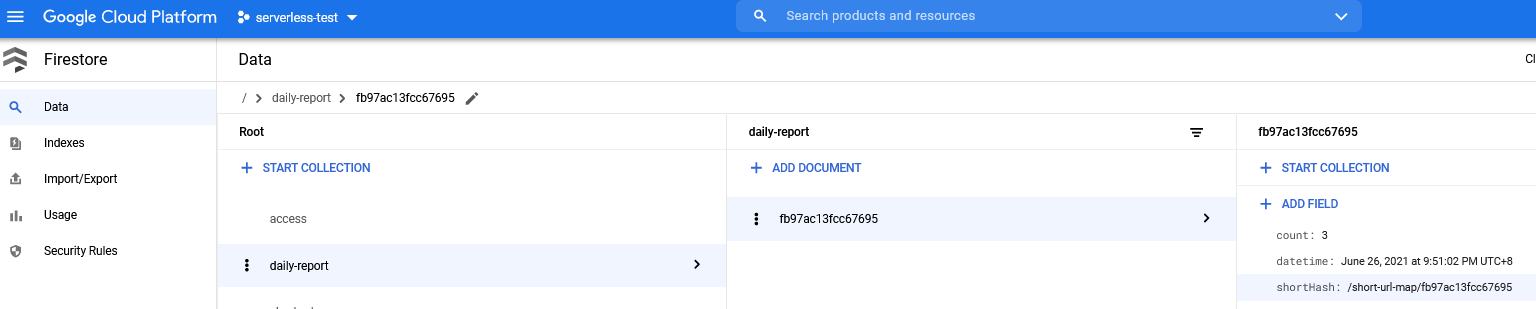
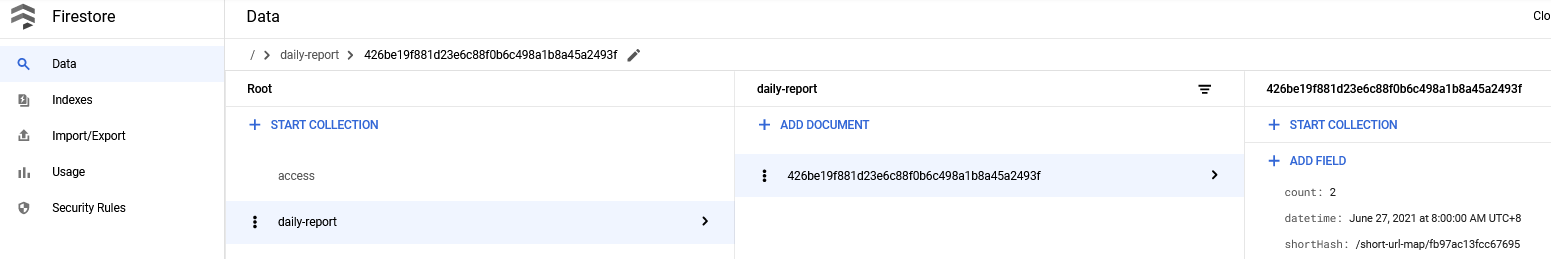
Update schema of shorturlsourcefunction

diff --git a/shorturlsourcefunction/shorturlsourcefunction.go b/shorturlsourcefunction/shorturlsourcefunction.go
@@ -39,6 +39,14 @@ func getAccessId(data []byte) []byte {
 	return bs
 }
 
+// getDailyReportId return sha1(data)
+func getDailyReportId(data []byte) []byte {
+	h := sha1.New()
+	h.Write(data)
+	bs := h.Sum(nil)
+	return bs
+}
+
 // HelloPubSub consumes a Pub/Sub message.
 func ShortUrlSource(ctx context.Context, m PubSubMessage) error {
 	projectID := os.Getenv("PROJECTID")
@@ -94,12 +102,14 @@ func ShortUrlSource(ctx context.Context, m PubSubMessage) error {
 	}
 
 	// create daily report doc when it not exist
-	if _, err := client.Collection("daily-report").Doc(shortHash).Get(ctx); err != nil {
+	dateStr := fmt.Sprintf("%s/%s/%s", datetime.Year(), datetime.Month(), datetime.Day())
+	dailyReportId := fmt.Sprintf("%x", getDailyReportId([]byte(dateStr+shortHash)))
+	if _, err := client.Collection("daily-report").Doc(dailyReportId).Get(ctx); err != nil {
 		dailyReport := map[string]interface{}{
 			"shortHash": client.Doc(fmt.Sprintf("short-url-map/%s", shortHash)),
-			"datetime":  datetime,
+			"datetime":  time.Date(datetime.Year(), datetime.Month(), datetime.Day(), 0, 0, 0, datetime.Nanosecond(), datetime.Location()),
 		}
-		if _, err := client.Collection("daily-report").Doc(shortHash).Set(ctx, dailyReport); err != nil {
+		if _, err := client.Collection("daily-report").Doc(dailyReportId).Set(ctx, dailyReport); err != nil {
 			log.Printf("ShortUrlSource: init daily report to firebase error: %v", err)
 			return errors.New(fmt.Sprintf("ShortUrlSource: init daily report  to firebase error: %v", err))
 		}
@@ -110,7 +120,7 @@ func ShortUrlSource(ctx context.Context, m PubSubMessage) error {
 		{Path: "count", Value: firestore.Increment(1)},
 	}
 	log.Printf("ShortUrlSource: datetime: %v, report: %v", datetime, countDailyReport)
-	if _, err := client.Collection("daily-report").Doc(shortHash).Update(ctx, countDailyReport); err != nil {
+	if _, err := client.Collection("daily-report").Doc(dailyReportId).Update(ctx, countDailyReport); err != nil {
 		log.Printf("ShortUrlSource: update daily report from firebase error: %v", err)
 		return errors.New(fmt.Sprintf("ShortUrlSource: update daily report from firebase error: %v", err))
 	}
